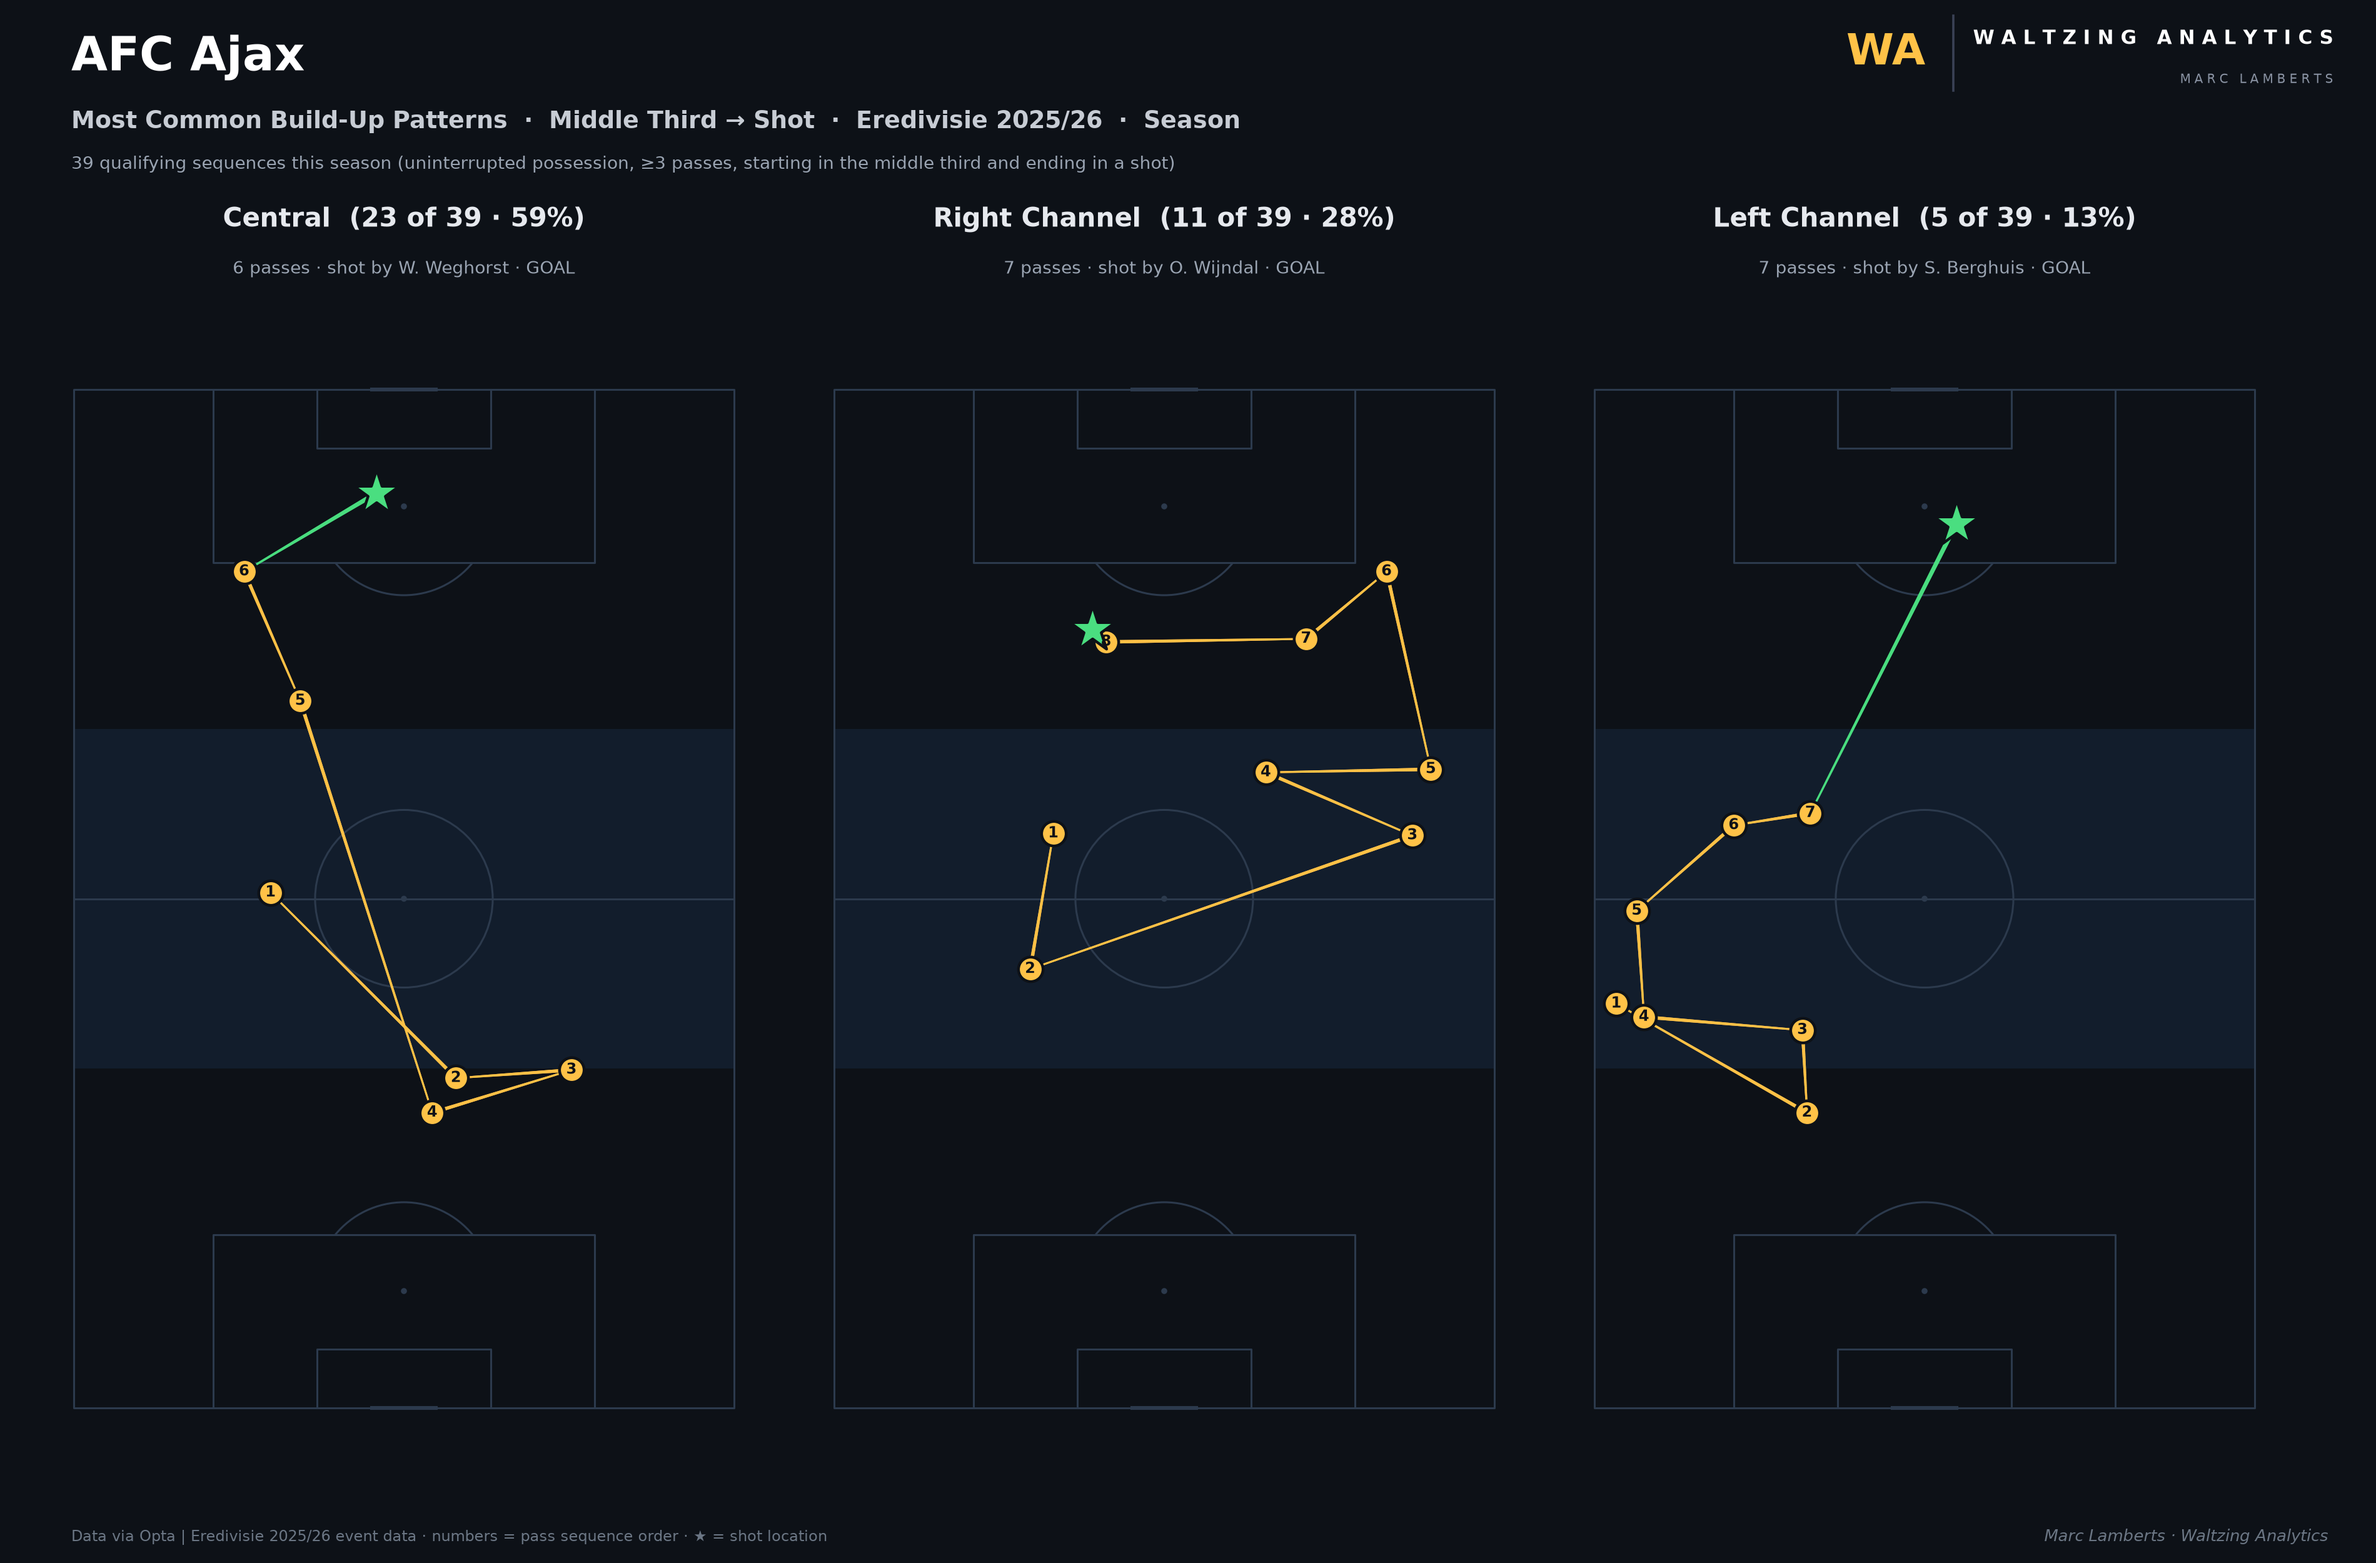
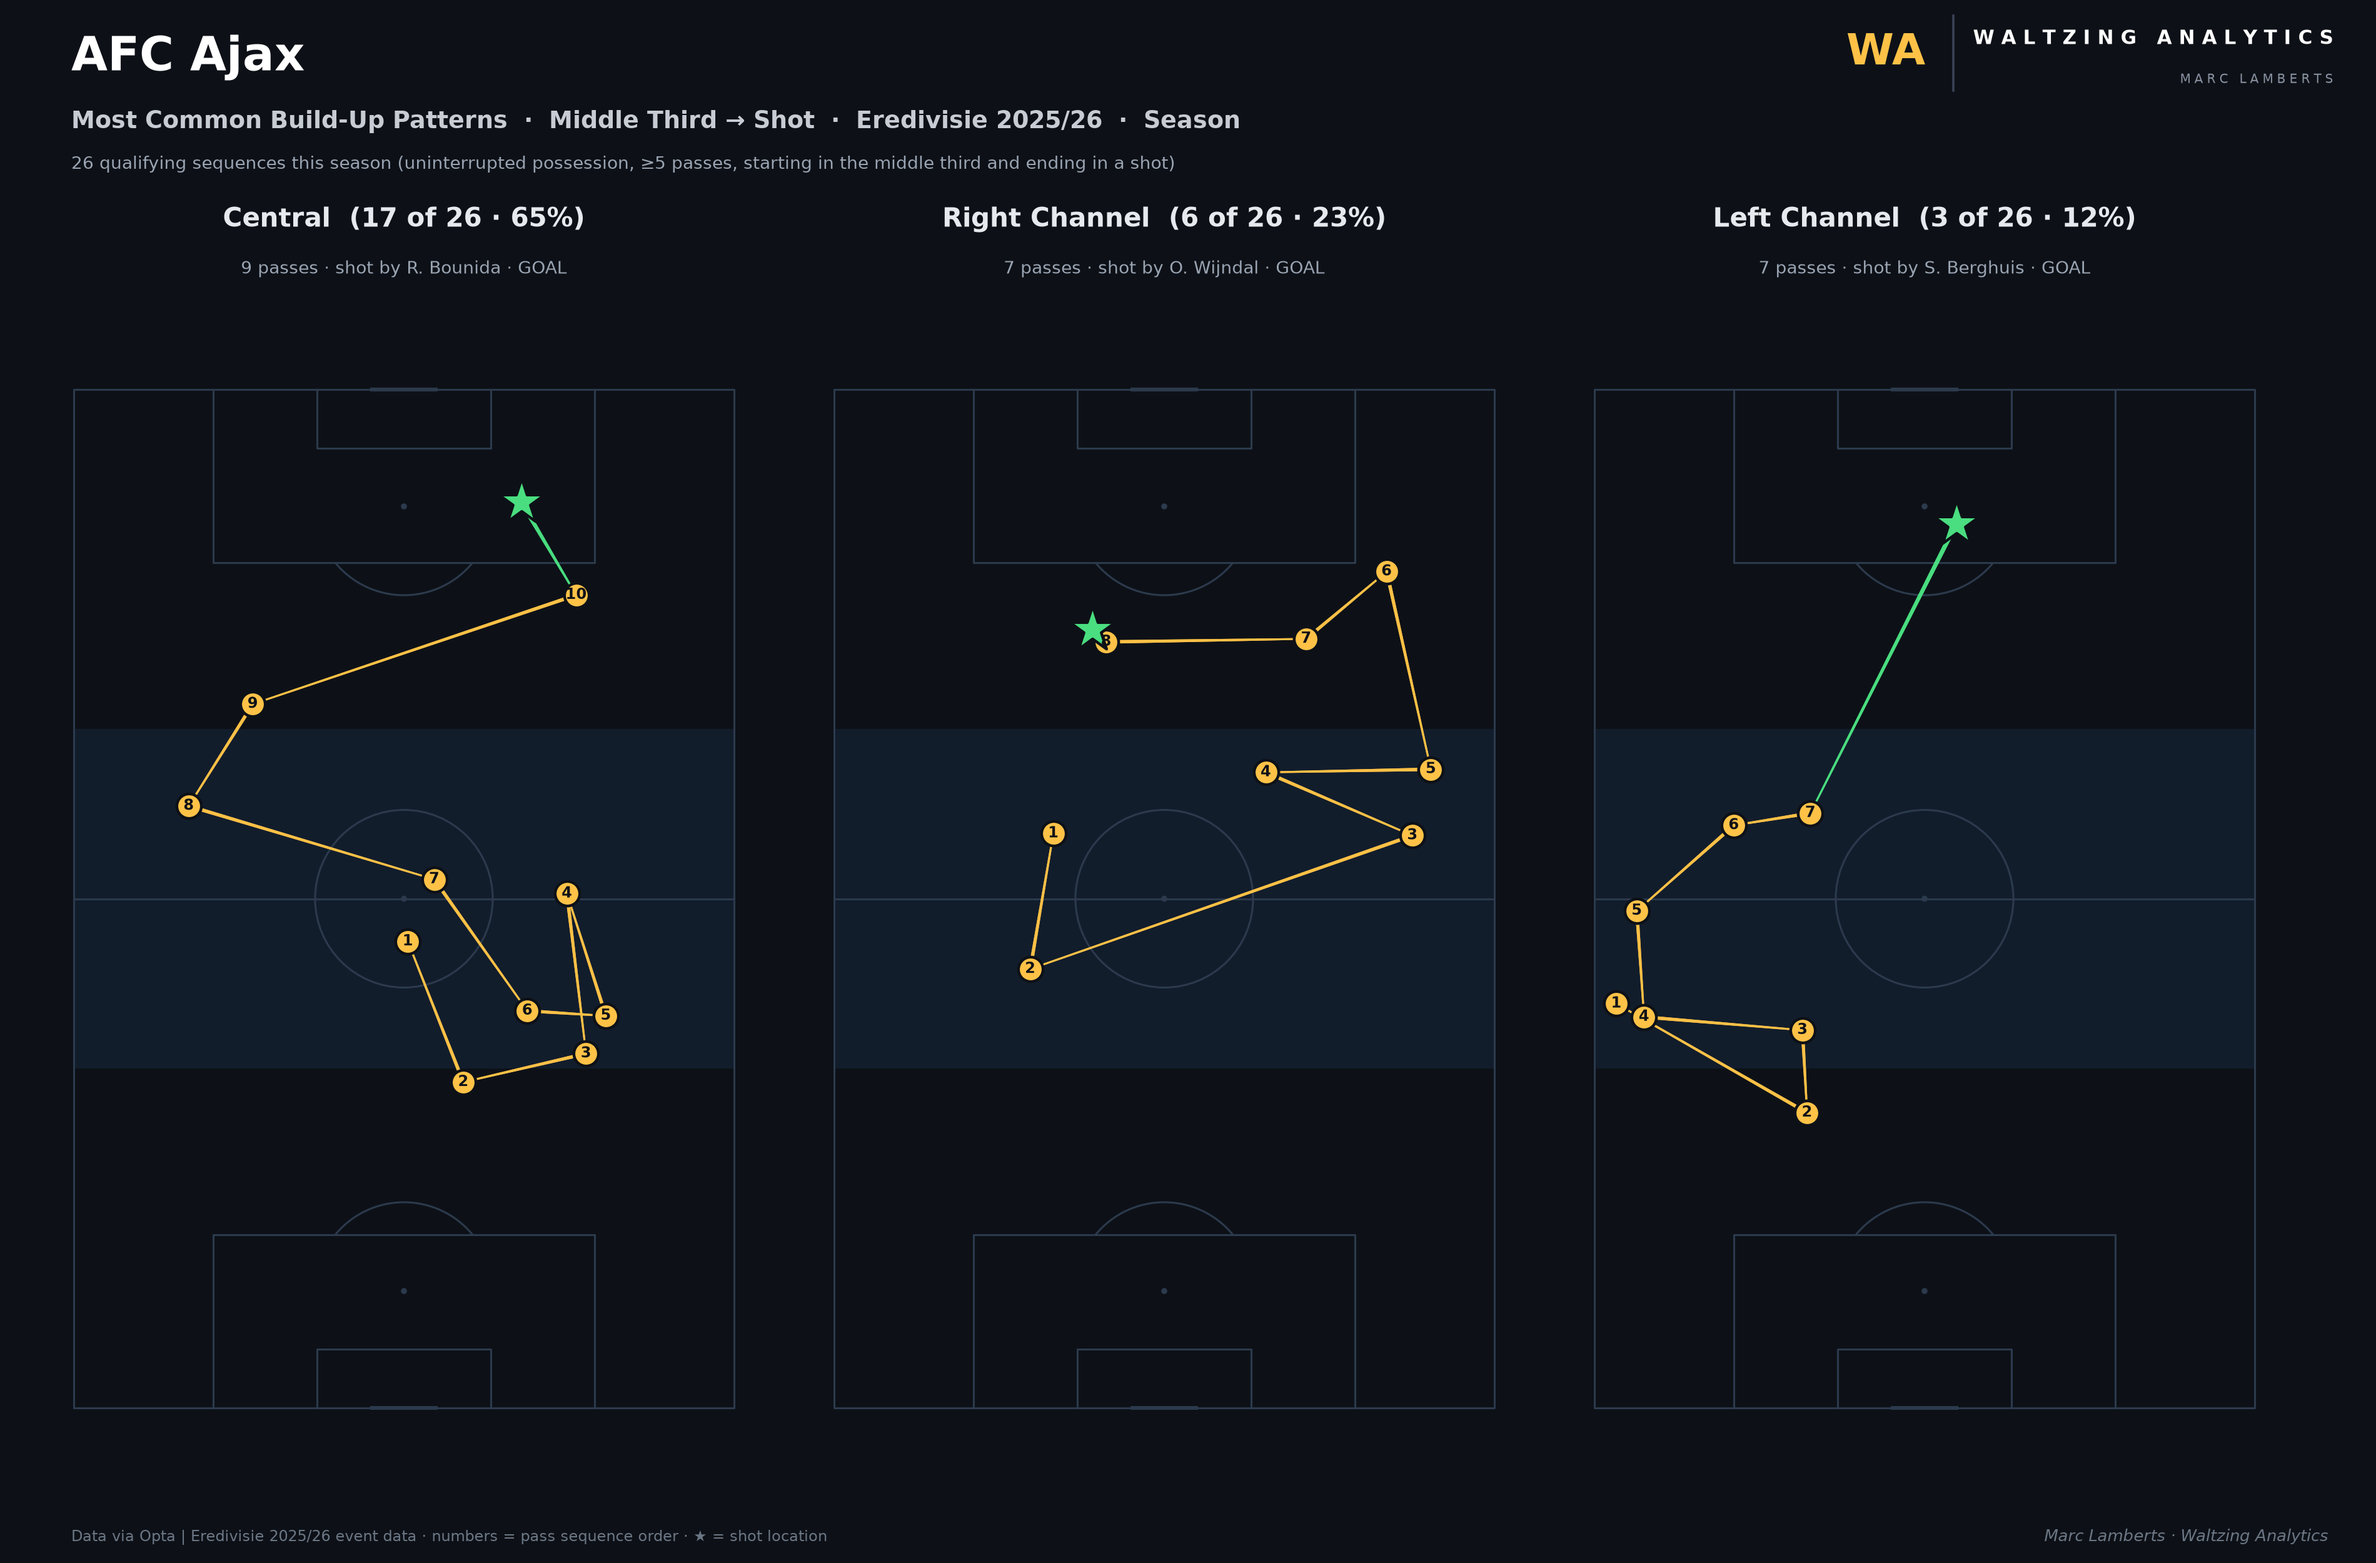
Prefer richer, more-involved sequences as representative examples
Two changes to buildup_patterns.py (shared by style_patterns.py):
- MIN_PASSES raised from 3 to 5, so single long balls or two-pass
  sequences no longer qualify at all.
- pick_representative() no longer picks the sequence closest to the
  median pass count; it now prefers >=5 distinct players on the ball
  (falling back to the full pool if none reach that bar) and then
  maximizes (players, passes) - the fullest team move available, not
  just a "typical length" one.

Regenerated all 20 existing charts (15 build-up + 5 style, across NEC,
PSV, Ajax, Feyenoord, Twente) with the new selection.

diff --git a/Scripts/buildup_patterns.py b/Scripts/buildup_patterns.py
@@ -41,7 +41,8 @@ DEF_THIRD_END = 100 / 3
 
 SHOT_TYPES = {13, 14, 15, 16}
 SHOT_NAMES = {13: "Missed", 14: "Hit Post", 15: "Saved", 16: "GOAL"}
-MIN_PASSES = 3
+MIN_PASSES = 5
+MIN_PLAYERS_PREFERRED = 5
 
 # start-zone options: (x lower bound, x upper bound, display label)
 ZONES = {
@@ -145,8 +146,9 @@ def collect_sequences(files, cid, zone_lo=0, zone_hi=100 / 3):
             n_passes = sum(1 for e in seq if e["typeId"] == 1)
             if n_passes < MIN_PASSES:
                 continue
-            qualifying.append({"seq": seq, "n_passes": n_passes, "shot": last_shot,
-                               "match": fn.split("/")[-1]})
+            n_players = len({e.get("playerName") for e in seq if e.get("playerName")})
+            qualifying.append({"seq": seq, "n_passes": n_passes, "n_players": n_players,
+                               "shot": last_shot, "match": fn.split("/")[-1]})
     return qualifying
 
 
@@ -197,11 +199,18 @@ def classify(item):
 
 
 def pick_representative(items):
-    lengths = sorted(i["n_passes"] for i in items)
-    median = statistics.median(lengths)
+    """Prefer a goal; among goals (or the whole pool if none scored), prefer
+    sequences with at least MIN_PLAYERS_PREFERRED distinct players on the
+    ball (falling back to the full pool if nothing meets that bar), then
+    take whichever has the most players and, tie-breaking, the most passes -
+    the fullest, most team-move-like example rather than a 2-player exchange
+    or a single long ball that happens to have enough "passes"."""
     goals = [i for i in items if i["shot"]["typeId"] == 16]
     pool = goals if goals else items
-    return min(pool, key=lambda i: abs(i["n_passes"] - median))
+    rich = [i for i in pool if i["n_players"] >= MIN_PLAYERS_PREFERRED]
+    if rich:
+        pool = rich
+    return max(pool, key=lambda i: (i["n_players"], i["n_passes"]))
 
 
 def make_plot(team_name, categories, total_n, out_path, zone_lo=0, zone_hi=100 / 3, zone_label="Defensive Third"):
